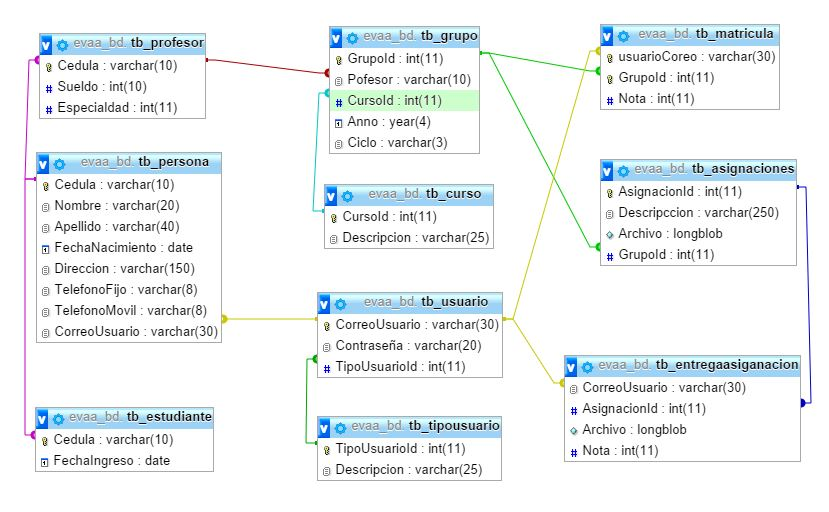
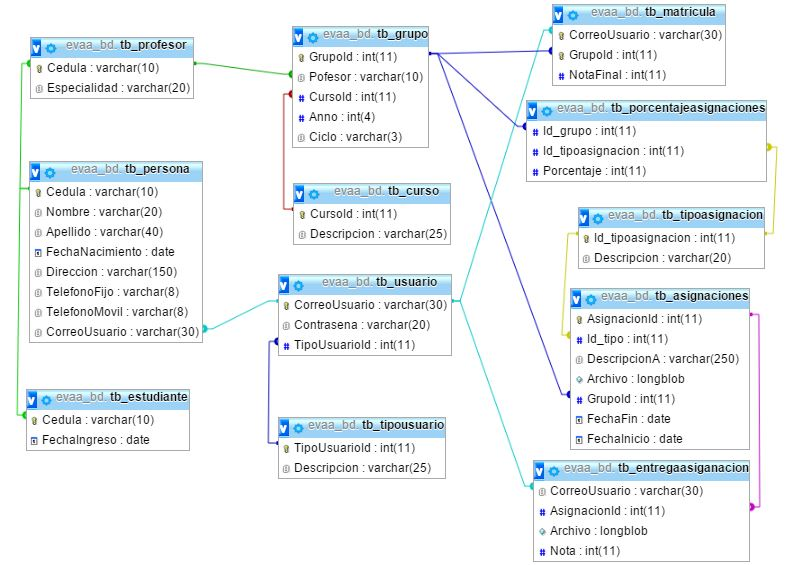
Listar Notas PHP

diff --git a/Proyecto/PHP/ListarNotas.php b/Proyecto/PHP/ListarNotas.php
@@ -1,0 +1,62 @@
+		<?php 
+        $link = mysql_connect("localhost", "root"); 
+        mysql_select_db("evaa_bd", $link); 
+		session_start();
+		$promedio;
+		
+        //Listar Cursos de cada Profesor
+		$consultaTipos = "SELECT (tb_tipoasignacion.Id_tipoasignacion) AS Id, (tb_tipoasignacion.Descripcion) AS De,
+							(tb_porcentajeasignaciones.Porcentaje) AS Po FROM tb_tipoasignacion, tb_porcentajeasignaciones
+							WHERE tb_tipoasignacion.Id_tipoasignacion = tb_porcentajeasignaciones.Id_tipoasignacion";	
+		
+		$consultaNotas = "SELECT Nota FROM tb_usuario, tb_entregaasiganacion, tb_matricula
+							WHERE tb_usuario.CorreoUsuario = '".$_SESSION['user']."'
+							AND tb_entregaasiganacion.CorreoUsuario = tb_usuario.CorreoUsuario 
+                            AND tb_usuario.CorreoUsuario = tb_matricula.CorreoUsuario 
+							AND tb_matricula.GrupoId = '". $_POST["Grupo"]."'";
+		
+		if ($resultadoTipo = mysql_query($consultaTipos, $link)) {	
+			if (mysql_num_rows($resultadoTipo = mysql_query($consultaTipos, $link))>0){
+				$tabla ="
+				<table id='divResultados' class='evaa-table evaa-table-bordered' border = '1'>
+				<thead>
+					<tr>						
+						<th>Descripcion</th>
+						<th>Porcentaje</th>
+						<th></th>
+					</tr>
+				</thead>
+				<tbody>
+        		<tr>";
+				while($Tipo = mysql_fetch_row($resultadoTipo)){
+					$cant=0;
+					if ($resuladoNota = mysql_query($consultaNotas, $link)) {	
+						if (mysql_num_rows($resuladoNota = mysql_query($consultaNotas, $link))>0){
+							while($Nota = mysql_fetch_row($resultadoNota)){
+								if ($Nota[0]==$Tipo[0])
+									$cant+=1;	
+							}
+							$poXuni = $Tipo[2]/$cant;
+							$prom;
+							while($Nota = mysql_fetch_row($resultadoNota)){
+								if ($Nota[0]==$Tipo[0])
+									$prom += ($poXuni/100)*$Nota;		
+							}
+							$tabla= $tabla."
+							<td class='evaa-odd'>".$Tipo[0]."</td>
+							<td class='evaa-odd'>".$prom[1]."</td>
+							</td>   
+							</tr>";
+	
+						}	//if
+					}	//if
+				}	//while			
+				$tabla= $tabla."</tbody>
+				</table>";
+				echo $tabla; 
+			}else 
+				echo "<br><h2 class='content-subhead'>No ahí notas registradas!</h2>";
+		}else 
+			echo "<br><h2 class='content-subhead'>Error al buscar las Notas</h2>";
+		mysql_close($link);
+        ?>
